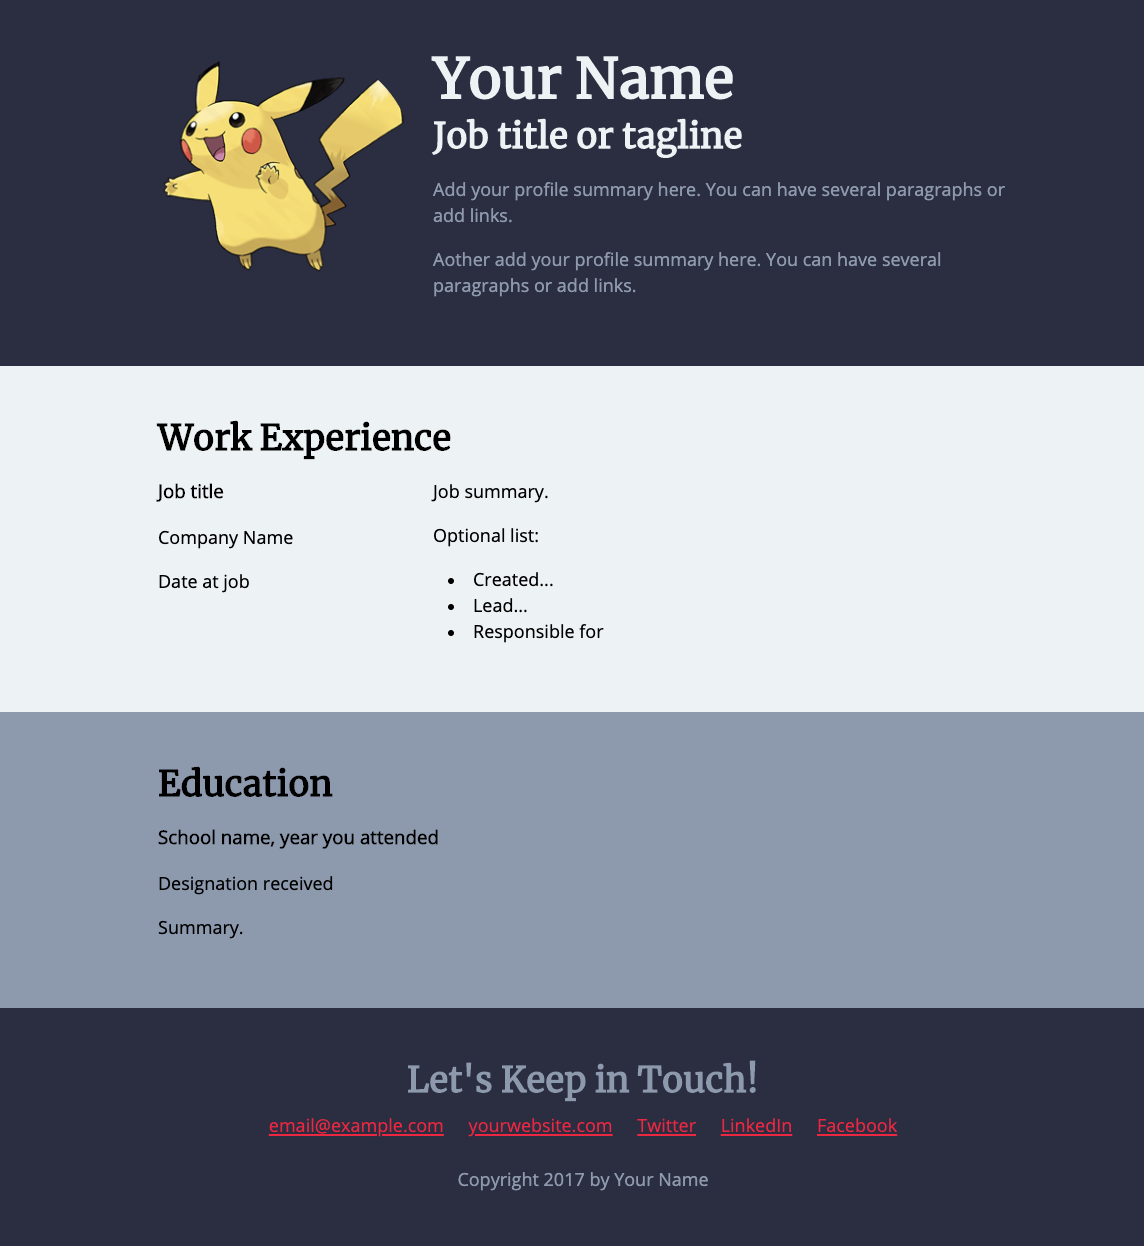
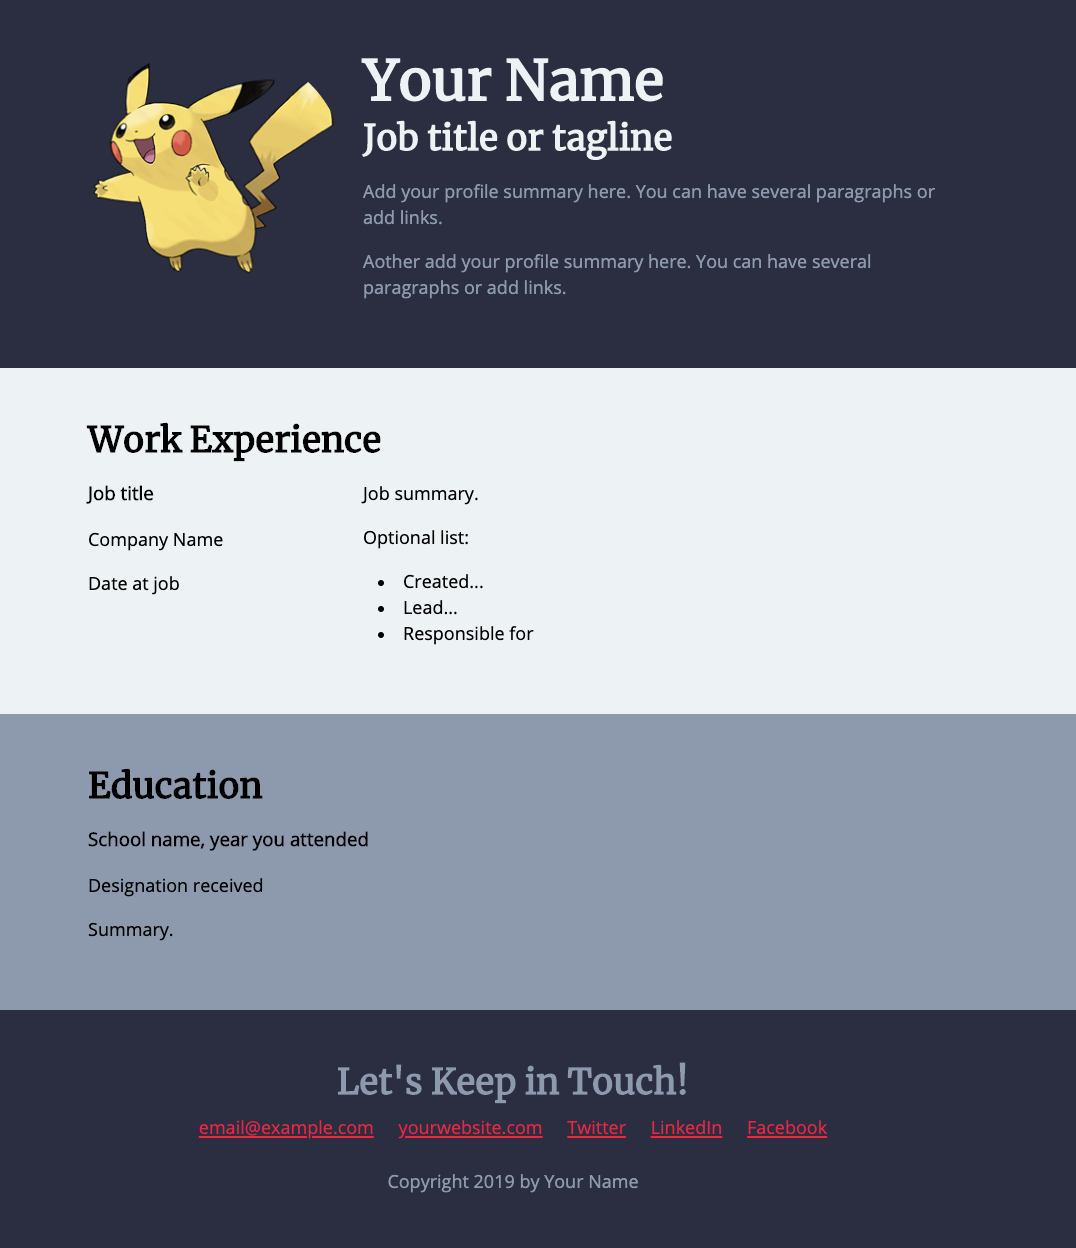
update: readme updated

diff --git a/index.html b/index.html
@@ -92,7 +92,7 @@
           <a href="#" target="_blank">Facebook</a>
         </div>
 
-        <p>Copyright 2017 by Your Name</p>
+        <p>Copyright 2019 by Your Name</p>
       </div>
     </footer>
   </body>

diff --git a/README.md b/README.md
@@ -1,2 +1,5 @@
 # css-simple-resume-site
+
 a basic resume website
+
+![ResumeSiteScreenshot](/images/site_screenshot.png)
